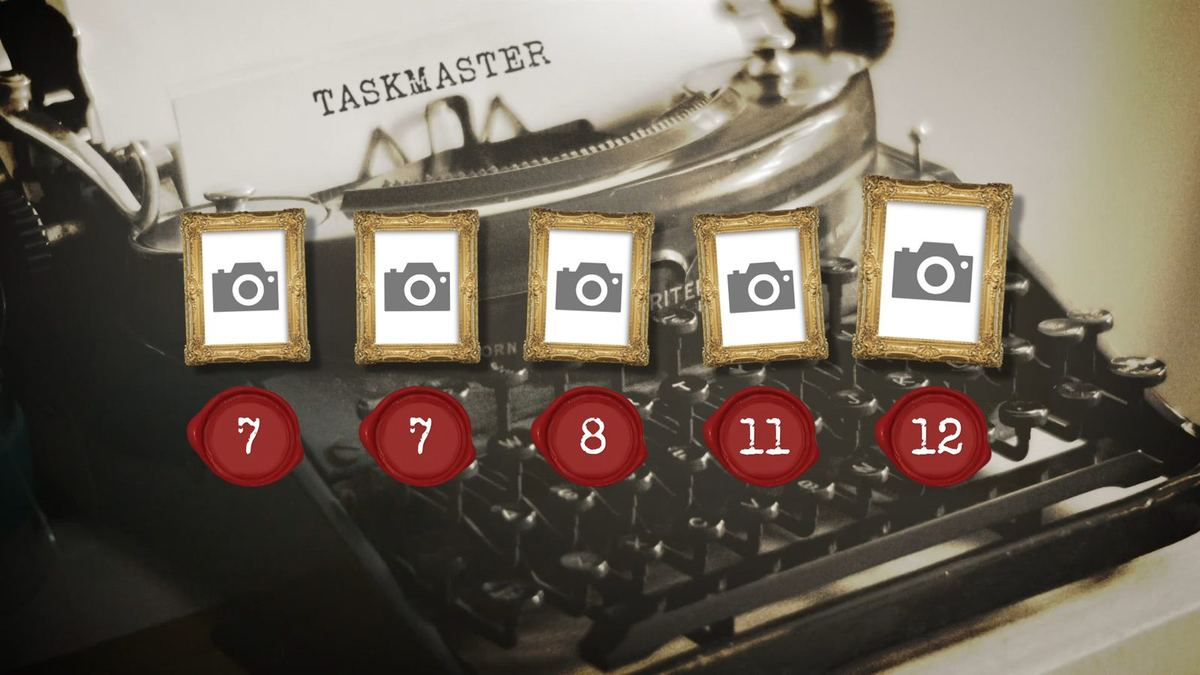
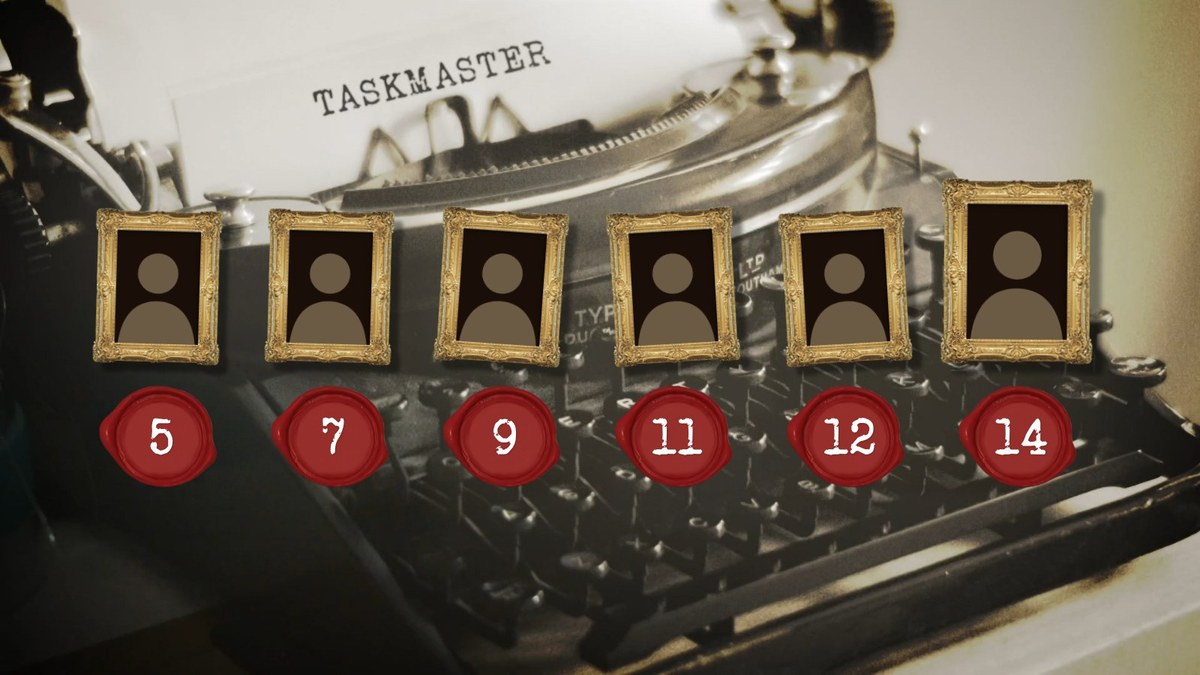
Showcase: scoreboard before and after, from the ABCD party
Claude-Session: https://claude.ai/code/session_01CSLvgAZ3J4QgTUxWWRTrZg

Changed region(s): [[0.0617, 0.2489, 0.925, 0.7467]]

diff --git a/docs/guest-shots/shots.tsx b/docs/guest-shots/shots.tsx
@@ -46,7 +46,7 @@ function build() {
   const checkedIn = new Set(arriving ? ids.filter((id) => id !== "sam") : ids);
   const contestants = Object.fromEntries(ids.map((id, i) => [id, {
     name: people[id], order: i,
-    ...(!(shot === "checkin-headshot" && id === who) && id !== "tom" ? { photo: face("#6b5a44") } : {}),
+    ...(!(shot === "checkin-headshot" && id === who) && (id !== "tom" || shot.startsWith("tv-scores")) ? { photo: face("#6b5a44") } : {}),
     ...(checkedIn.has(id) && !arriving ? { uid: id } : {}),
   }]));
   if (arriving) for (const id of checkedIn) contestants[id]!.uid = id;
@@ -100,6 +100,14 @@ function build() {
       if (shot === "host-points") (tasks.t3 as { scores?: Record<string, number> }).scores = { alex: 3, greg: 4, priya: 5, sam: 5 };
       g.prize = { photos: PRIZE_PHOTOS, presented: { sam: true } };
       break;
+    // The scoreboard on the big screen, before and after the host updates it with the prize task's points.
+    case "tv-scores-before": case "tv-scores": {
+      picked(); set("display", { step: "scoreboard" }); set("begun", true);
+      const t1 = { alex: 4, greg: 2, mei: 3, priya: 5, sam: 3, tom: 1 }, t2 = { alex: 5, greg: 3, mei: 2, priya: 2, sam: 4, tom: 3 }, t3 = { alex: 5, greg: 4, mei: 2, priya: 4, sam: 5, tom: 1 };
+      Object.assign(tasks.t1 as object, { scores: t1 }); Object.assign(tasks.t2 as object, { scores: t2 }); Object.assign(tasks.t3 as object, { scores: t3 });
+      (session.scoreboard as { shown?: unknown }).shown = shot === "tv-scores" ? { t1, t2, t3 } : { t1, t2 };
+      break;
+    }
     case "checkin-rules": case "checkin-pile": break;
     case "checkin-confirm": case "checkin-headshot": case "checkin-list": break;
   }

diff --git a/docs/showcase/index.html b/docs/showcase/index.html
@@ -270,8 +270,12 @@ h1, h2 { font-family: var(--typewriter); font-weight: normal; letter-spacing: 0.
       <p>When the host updates the scores, the wax seals tick up, everyone shuffles into order, and the leader's frame grows.</p>
     </header>
     <figure class="tv">
-      <div class="frame"><img src="img/tv-scores.jpg" width="1200" height="675" alt="The scoreboard on the TV: five gold-framed headshots over an old typewriter, each with a red wax seal showing their score, 7, 7, 8, 11 and 12."></div>
-      <figcaption class="caption">The scoreboard, leader on the right</figcaption>
+      <div class="frame"><img src="img/tv-scores-before.jpg" width="1200" height="675" alt="The scoreboard on the TV before the update: six gold-framed headshots over an old typewriter, each with a red wax seal, 4, 5, 5, 7, 7 and 9."></div>
+      <figcaption class="caption">Before the host updates</figcaption>
+    </figure>
+    <figure class="tv">
+      <div class="frame"><img src="img/tv-scores.jpg" width="1200" height="675" alt="The scoreboard after the update: the seals have ticked up to 5, 7, 9, 11, 12 and 14, and everyone has shuffled into order."></div>
+      <figcaption class="caption">After: seals ticked up, everyone re-sorted</figcaption>
     </figure>
   </section>
 

diff --git a/docs/screens/README.md b/docs/screens/README.md
@@ -28,6 +28,8 @@ Guest phone (`/play`, 390px wide), redrawn on 2026-10-18 in the host remote's la
 | `noisemaster-host-round.jpg` | The host phone's Noisemaster page mid-go, whole page: "Sam at the soundboard", the clock, the board with its words, Restart and Next round, Points below (2026-10-18) |
 | `run-of-show-host.jpg` | Host phone: the Run of show, "Up next" card with the gold Start button, "Show the scoreboard", and all eight tasks (taken 2026-10-18 from the ABCD party) |
 | `points-host-given.jpg` | Host phone on the Prize task: Sam's prize on the big screen and the Points rows, four guests already scored (taken 2026-10-18 from the ABCD party) |
+| `scores-main-before.jpg` | Main screen: the scoreboard before the host updates it, six wax seals showing the totals so far (taken 2026-10-18 from the ABCD party, silhouette headshots) |
+| `scores-main-after.jpg` | Main screen: the same scoreboard after the update with the Prize task's points, seals ticked up and everyone in their new order, the leader's frame enlarged (taken 2026-10-18 from the ABCD party) |
 | `main-secret-tasks.jpg` | Secret Tasks on the big screen: "What was Sam's secret?" over the opened envelope, the task on its paper (2026-10-18) |
 | `guest-secret-open.jpg` | Sam's opened envelope on the guest phone: the task on its paper, "Seal it again", the to-do list with the secret envelope "picked" (2026-10-18) |
 | `guest-noisemaster-watch.jpg` | Watching a Noisemaster turn: no card, "Alex is at the soundboard. Watch the big screen." |
